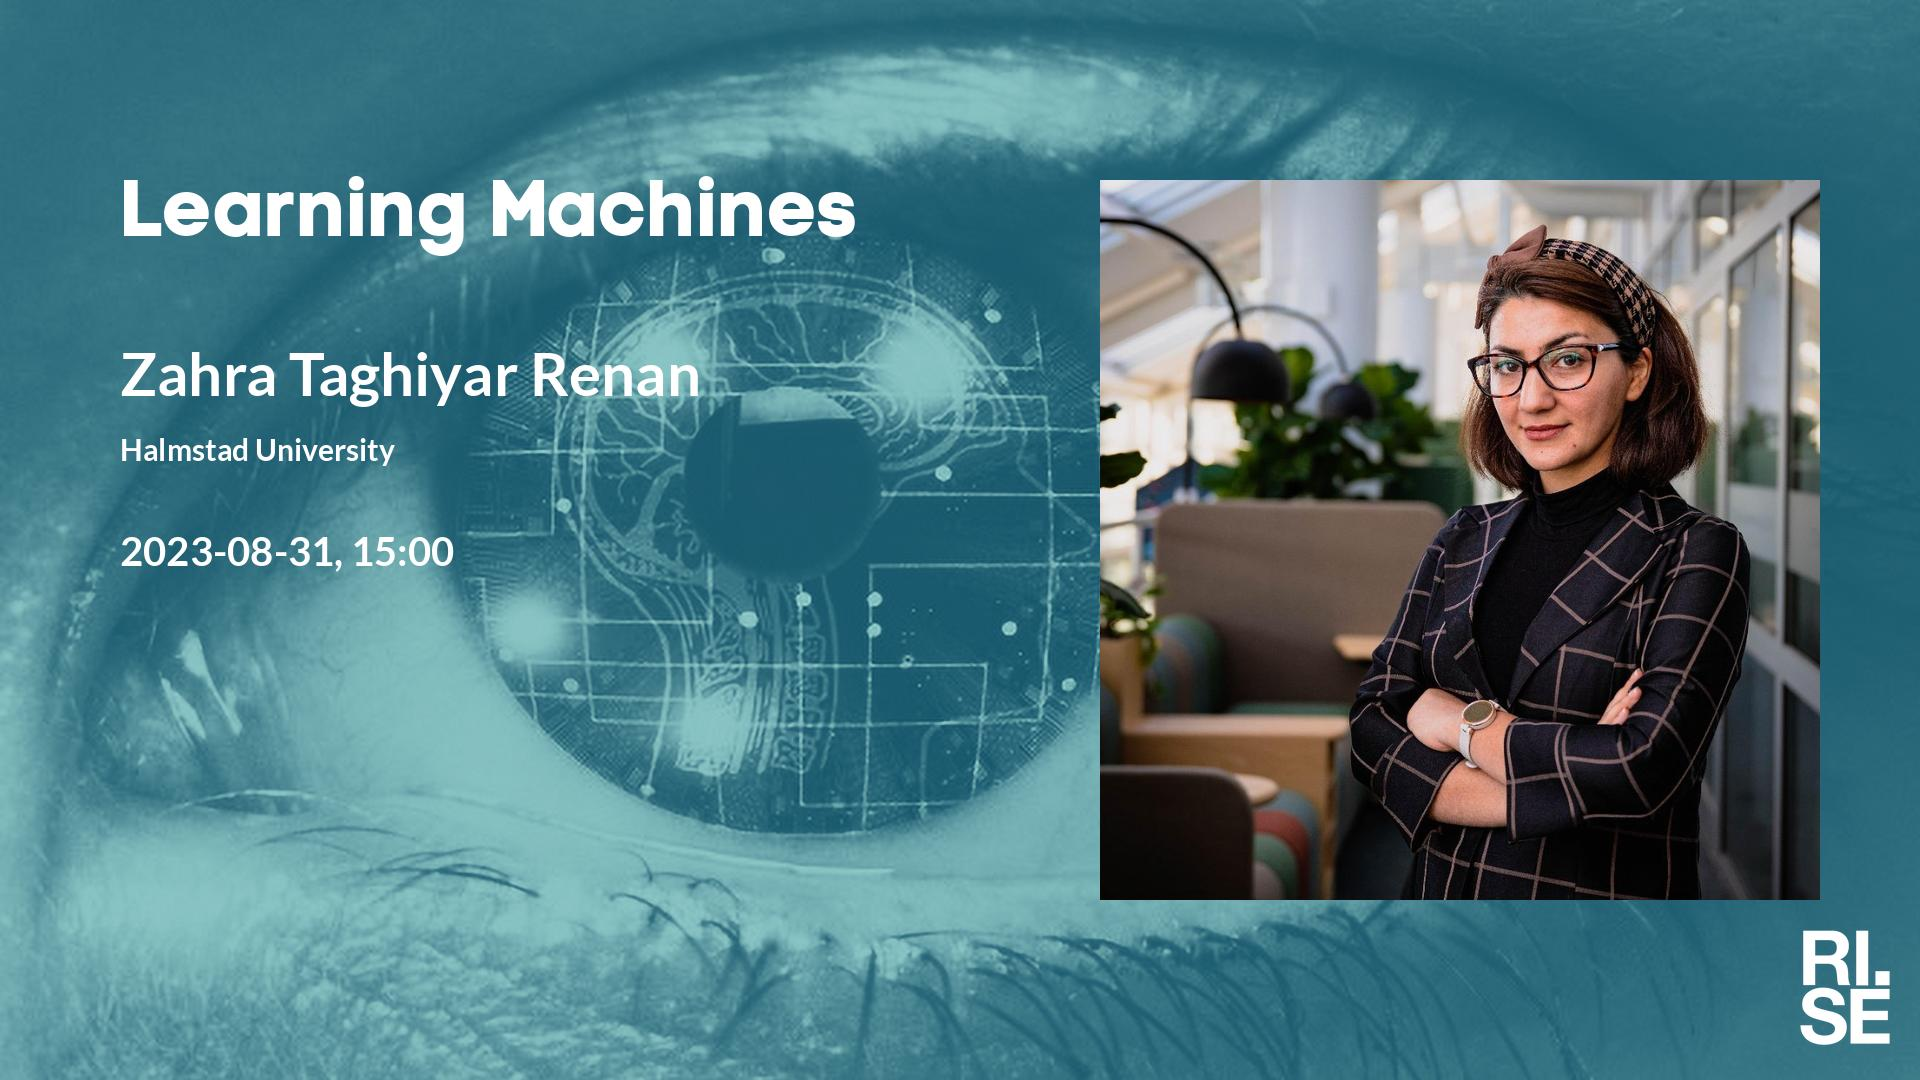
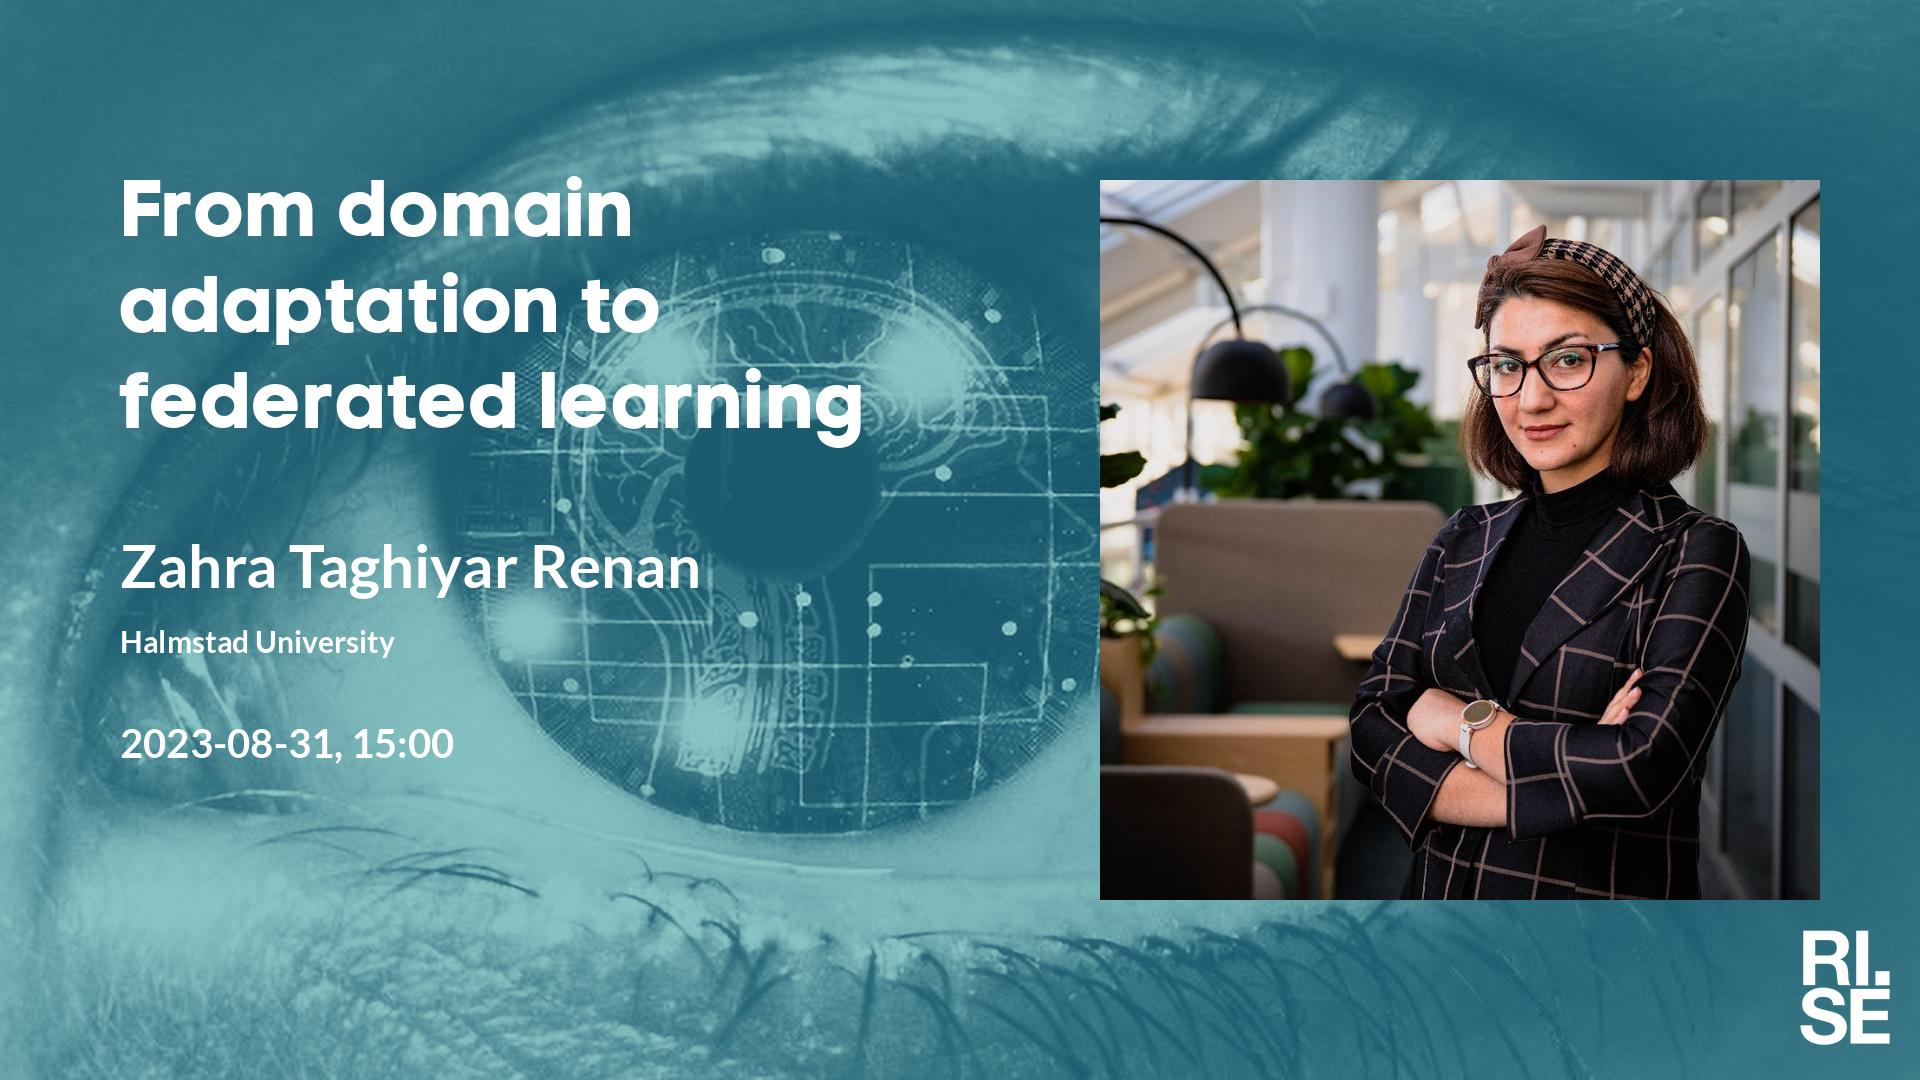
Updated plan on web site.

diff --git a/lm/2023-08-31.md b/lm/2023-08-31.md
@@ -4,15 +4,19 @@ metatags: "<meta name=\"robots\" content=\"noindex,nofollow\" />"
 ---
 Welcome to this week's Learning Machines seminar.
 
-**Title:** N/A
+**Title:** From domain adaptation to federated learning
 
 **Speaker:** Zahra Taghiyar Renan, Halmstad University
 
-**Abstract:** N/A
+**Abstract:** In recent years, data-driven methods have received increasing attention across many fields. These methods are generally based on machine learning and learn predictive models from provided training samples. The models predict the labels of previously unseen samples or the value of a dependent variable. However, the generalization ability of the models to predict the label of the test samples is inherently connected to the assumption that training and test samples are generated by independent and identically distributed random variables, the IID assumption. 
 
-**About the speaker:** N/A
+The dynamic nature of the real world may violate the mentioned assumption. This may result in a mismatch between samples available for training and future samples used for exploiting the models. Statistically, training and test samples may originate from different distributions. We call each of these data and the corresponding data distributions "domains". To alleviate the differences between the domains, a solution is Domain Adaptation (DA); DA methods reduce the distance between diverse distributions. The scenario most often addressed by the literature is that DA deals with two domains: Source and Target. In this scenario, the source dataset is fully labeled. The goal is to adapt source and target domains to construct a generalizable model for the target domain using the labeled source samples. However, in order to achieve this objective, domain adaptation typically requires centralizing samples from all domains to facilitate the adaptation process. 
 
-**Location:** location, or online using Zoom.
+Privacy considerations often prevent data owners (clients) from sharing their data entirely. Consequently, decentralized learning methods, such as federated learning, have gained attention as alternatives to centralized approaches. These decentralized methods enable collaborative learning to build a shared global model. Given that distributed domains often possess statistical heterogeneity, the global model's effectiveness can be impacted. Theoretically, we illustrate how heterogeneity among clients influences the global model's performance on each individual client. This highlights the necessity for Decentralized Domain Adaptation approaches.
+
+**About the speaker:** Zahra (Nasrin) Taghiyarrenani is currently in her last year as a Ph.D. candidate at Halmstad University, where her specialization lies in the area of Domain Adaptation and Federated Learning. Through her studies, she, by proposing new Domain Adaptation and Federated Learning methods, has effectively addressed the problems within computer network security and Predictive Maintenance.
+
+**Location:** RISE Gothenburg Office, or online using Zoom.
 
 **Zoom link:** [https://rise.zoom.us/j/208117140?pwd=SHFHbHY2VXFNSkt6NFF2WkFPQ3VnQT09](https://rise.zoom.us/j/208117140?pwd=SHFHbHY2VXFNSkt6NFF2WkFPQ3VnQT09)
 

diff --git a/lm/index.md b/lm/index.md
@@ -9,6 +9,7 @@ table {border-collapse: collapse;}
 
 | date | speaker                                   | photo | shareable | meeting backdrop | youtube thumbnail | <a title="Speaker, Title, Abstract, Bio, Photo. Strikethrough means we don't have it yet.">comment</a>        |
 | ---- | ----------------------------------------- | ----- | ----- | ----- | ----- | -------------- |
+|  2023-08-31  |  [Zahra Taghiyar Renan, Halmstad University](2023-08-31.md)  |  [photo](photo-zahra-taghiyar-renan.jpg)  |  [social media ](social-media-zahra-taghiyar-renan.jpg)  |  [meeting backdrop ](meeting-backdrop-zahra-taghiyar-renan.jpg)  |  [youtube thumbnail ](youtube-thumbnail-zahra-taghiyar-renan.jpg)  |  STABP  |
 |  2023-09-07  |  [Adam Breitholz, Chalmers University of Technology](2023-09-07.md)  |  [photo](photo-adam-breitholz.jpg)  |  [social media ](social-media-adam-breitholz.jpg)  |  [meeting backdrop ](meeting-backdrop-adam-breitholz.jpg)  |  [youtube thumbnail ](youtube-thumbnail-adam-breitholz.jpg)  |  STABP  |
 |  2023-09-14  |  [Virginia Smith, CMU](2023-09-14.md)  |  [photo](photo-virginia-smith.jpg)  |  [social media ](social-media-virginia-smith.jpg)  |  [meeting backdrop ](meeting-backdrop-virginia-smith.jpg)  |  [youtube thumbnail ](youtube-thumbnail-virginia-smith.jpg)  |  S~~TAB~~P  |
 |  2023-09-21  |  [Nico Lang, University of Copenhagen](2023-09-21.md)  |  [photo](photo-nico-lang.jpg)  |  [social media ](social-media-nico-lang.jpg)  |  [meeting backdrop ](meeting-backdrop-nico-lang.jpg)  |  [youtube thumbnail ](youtube-thumbnail-nico-lang.jpg)  |  STABP  |
